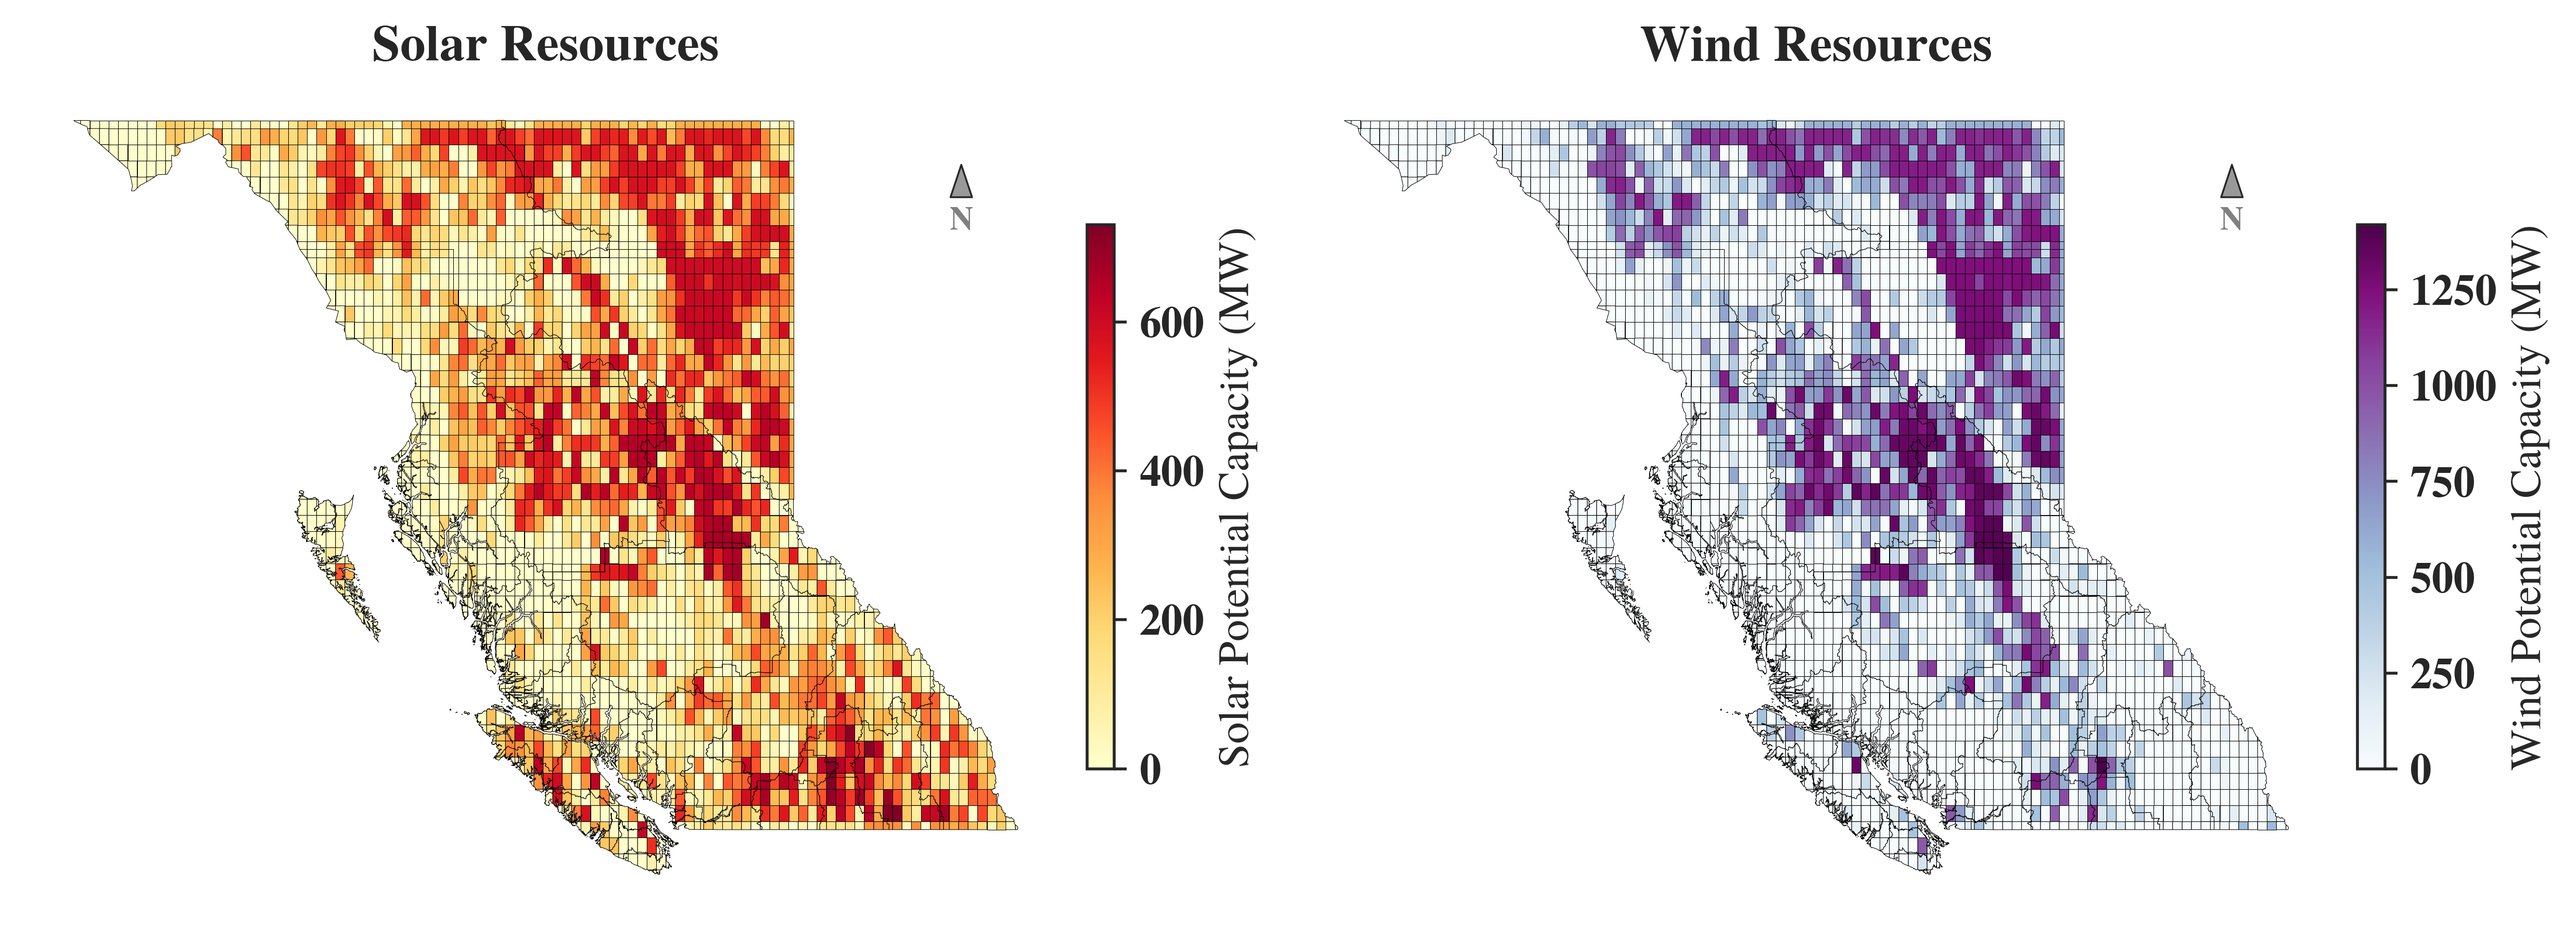
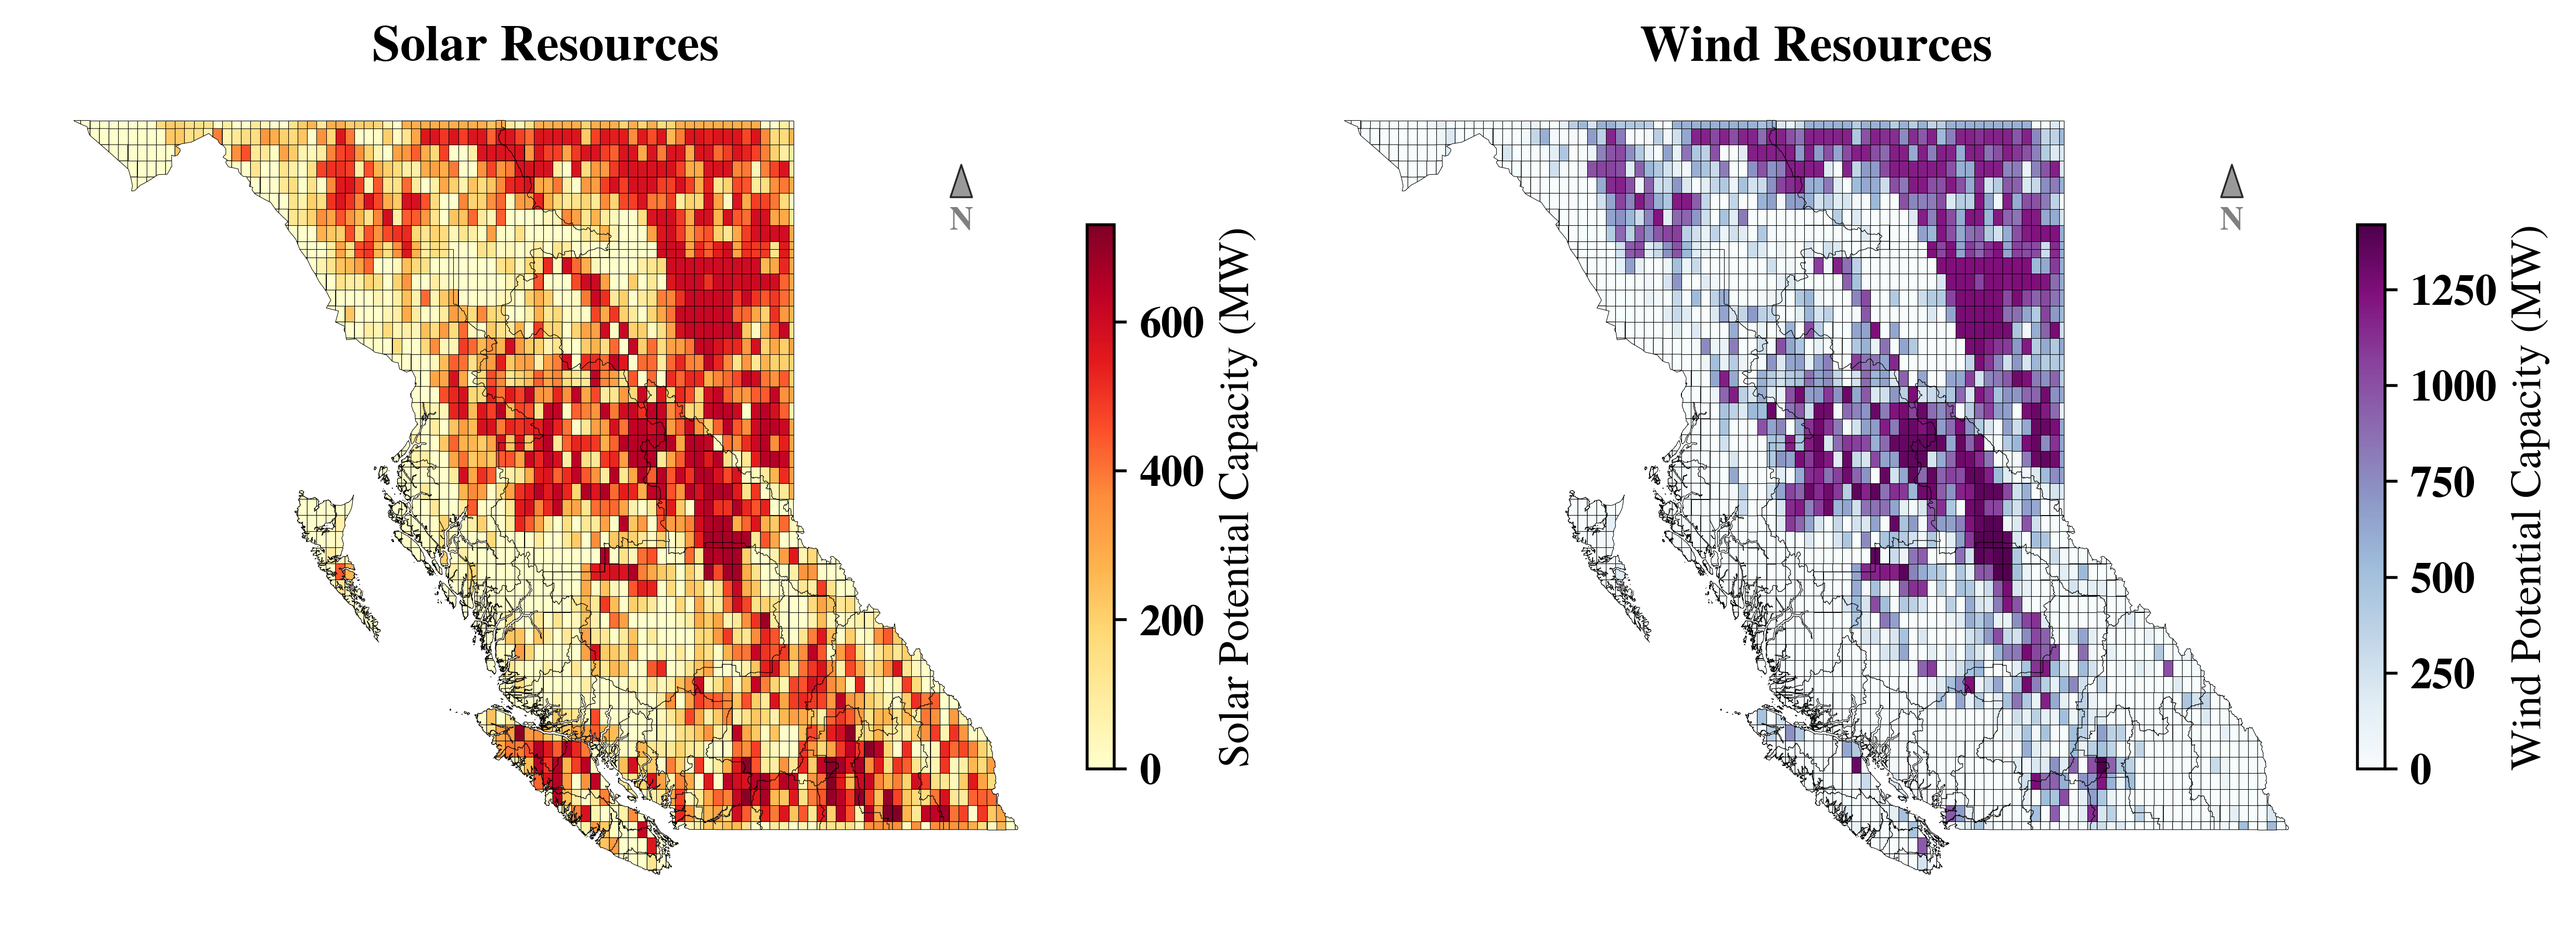
visual upgrades for doc page

diff --git a/docs/source/index.md b/docs/source/index.md
@@ -3,9 +3,10 @@
 
 __One of the many solutions ?__
 
-<img src="_static/RESource_logo_2025.07.jpg" alt="RESource logo" width="200"/>
+<!-- <img src="_static/RESource_logo_2025.07.jpg" alt="RESource logo" width="200"/> -->
 
-# RESource 
+<!-- # RESource  -->
+<img src="_static/RES_banner_2.jpg" alt="assessment_steps" height="200"/>
 
 __A Modular and Transparent Open-Source Framework for Sub-National Assessment of Solar and Land-based Wind Potential.__
 
